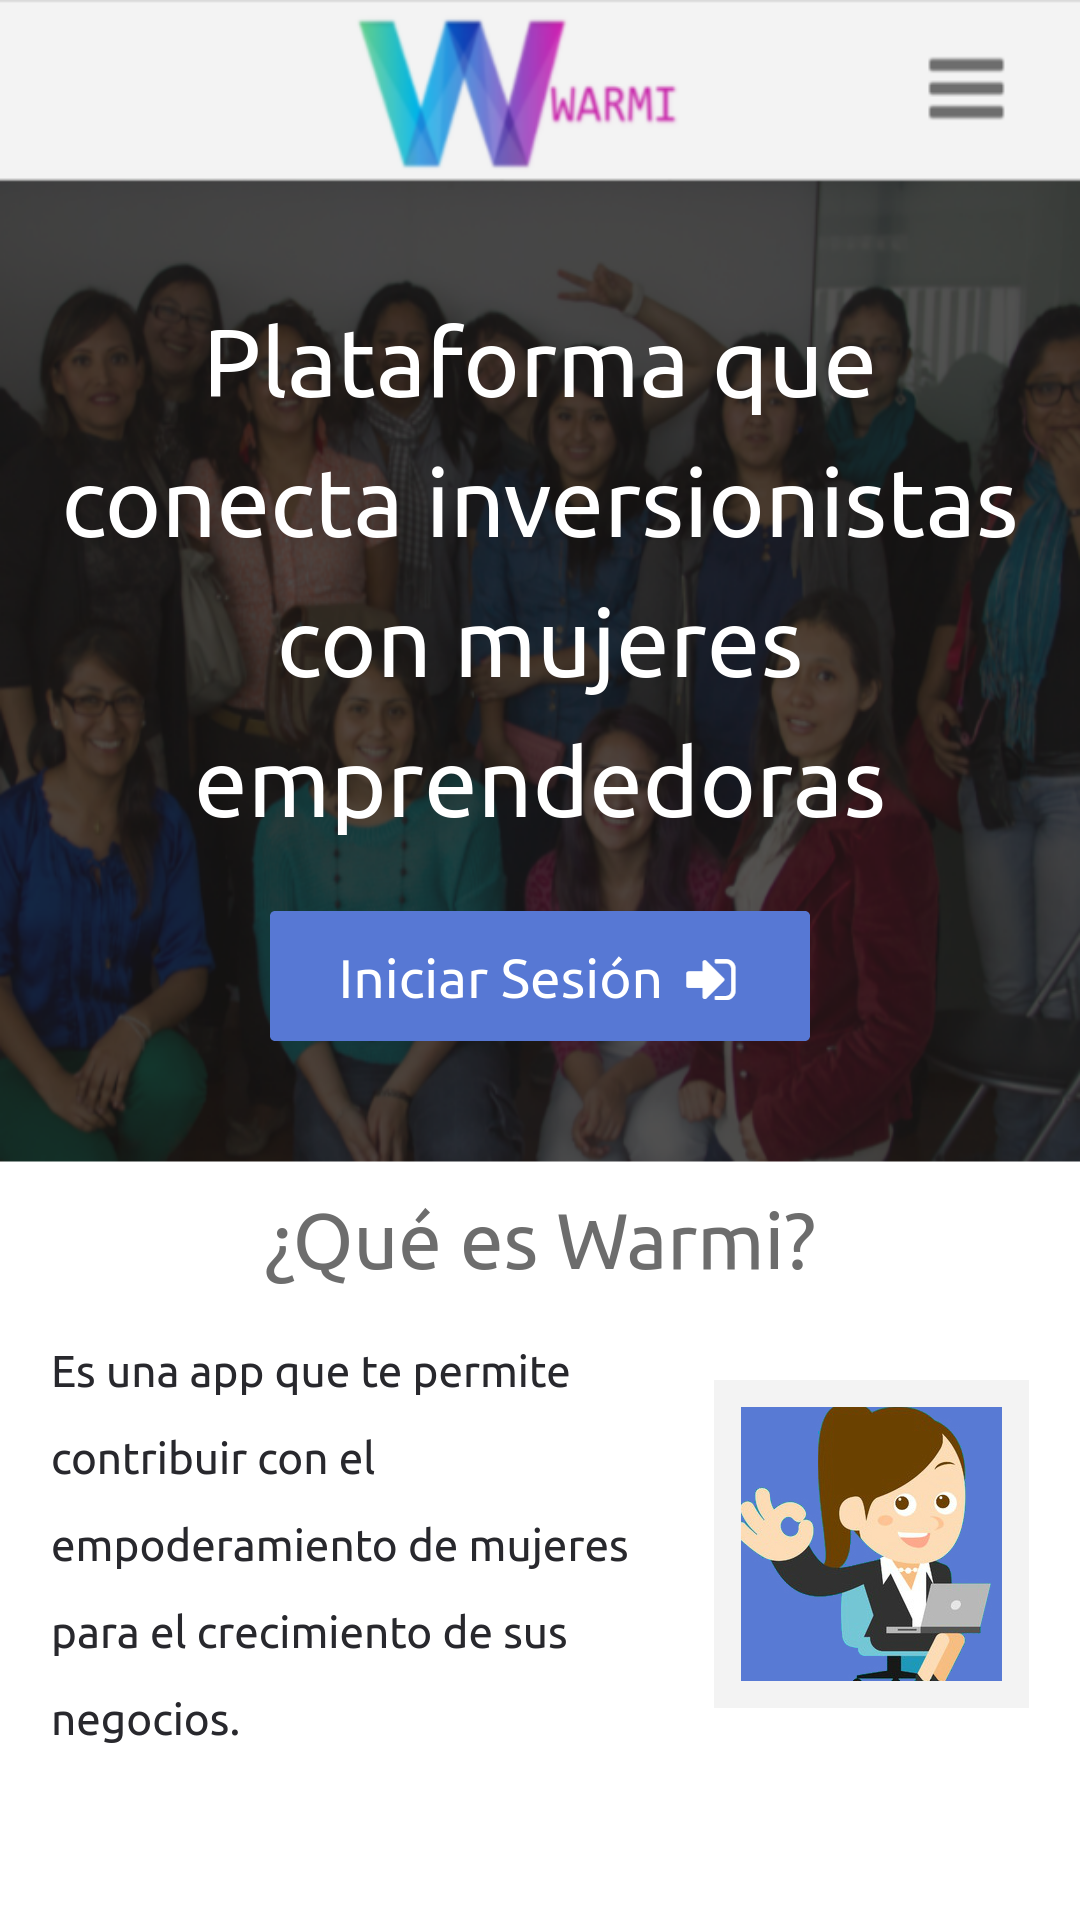
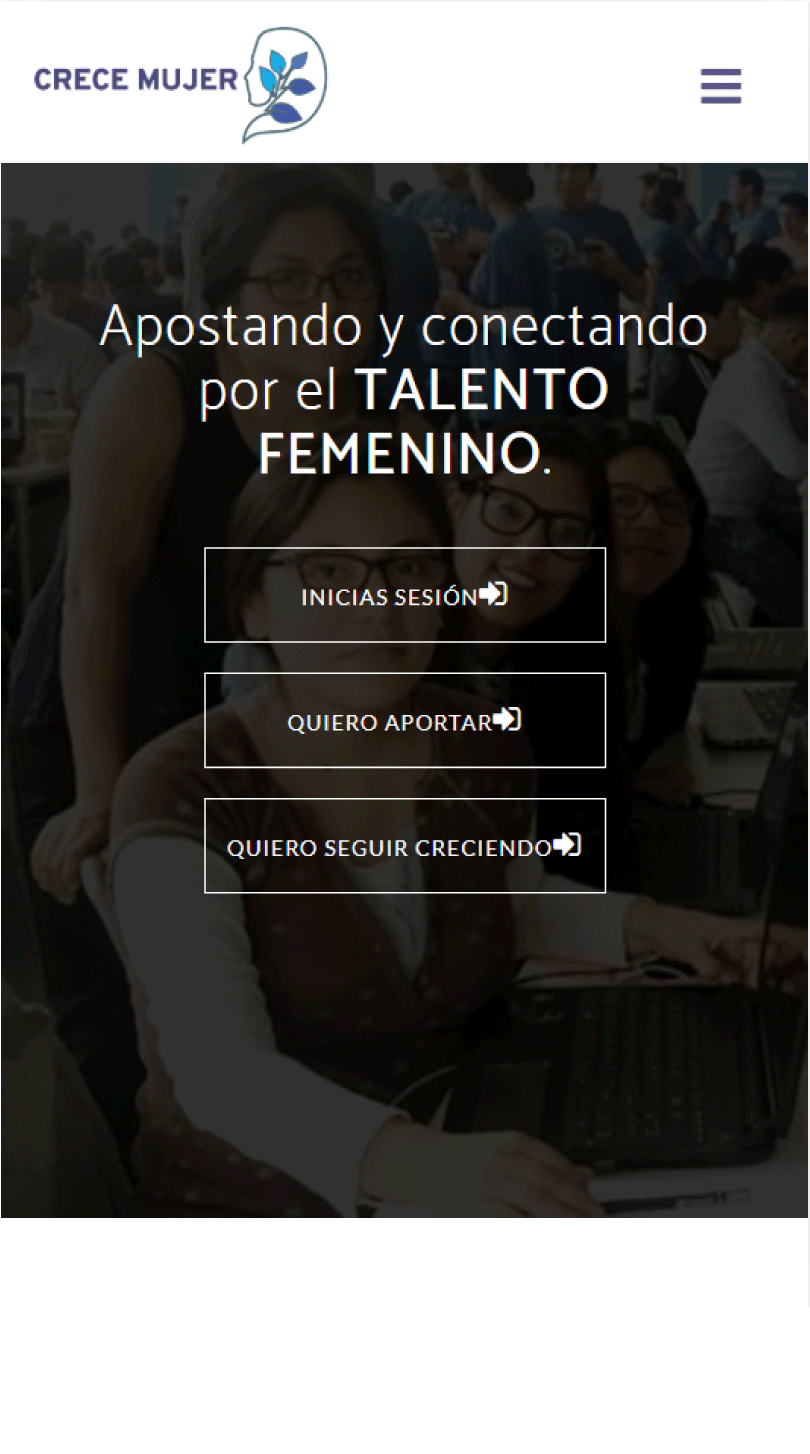
update-img

diff --git a/index.html b/index.html
@@ -70,16 +70,17 @@
                             <div class="header-content-inner">
                                 <h1>Apostando y conectando por el <b style="font-weight: 500;">TALENTO FEMENINO</b>.</h1>
                                 <a class="btn btn-outline btn-xl page-scroll btn-customizado" href="#download">Inicias sesión<i class="fa fa-sign-in"></i></a>
-                                <a class="btn btn-outline btn-xl page-scroll btn-customizado" href="#download">Quiero invertir<i class="fa fa-sign-in"></i></a>
-                                <a class="btn btn-outline btn-xl page-scroll btn-customizado" href="#download">Quiero mi préstamo<i class="fa fa-sign-in"></i></a>
+                                <a class="btn btn-outline btn-xl page-scroll btn-customizado" href="#download">Quiero aportar<i class="fa fa-sign-in"></i></a>
+                                <a class="btn btn-outline btn-xl page-scroll btn-customizado" href="#download">Quiero seguir creciendo<i class="fa fa-sign-in"></i></a>
                             </div>
                         </div>
                         <style>
                             .btn-customizado {
-                                width: 205px;
+                                width: 212px;
                                 padding: 15px 0;
-                                margin: 0 4px 15px;
-                                font-size: 12px;
+                                margin: 0 1px 15px;
+                                font-size: 11px;
+                                letter-spacing: 1px;
                             }
                         </style>
                     </div>
@@ -88,7 +89,7 @@
                             <div class="device-mockup iphone6_plus portrait white device-customizado">
                                 <div class="device">
                                     <div class="screen"><!-- Demo image for screen mockup, you can put an image here, some HTML, an animation, video, or anything else! -->
-                                    <img alt="" class="img-responsive" src="img/screen-14.png"></div>
+                                    <img alt="" class="img-responsive" src="img/screen-14.jpeg"></div>
                                     <div class="button">
                                         <!-- You can hook the "home button" to some JavaScript events or just remove it -->
                                     </div>
@@ -196,7 +197,7 @@
             <div class="row">
                 <div class="col-lg-6 text-center">
                     <div class="feature-item">
-                        <img src="https://www.clinicasabortos.mx/images/blog/igualdad-modificado-1036.jpg" alt="">
+                        <img class="girl_positive" src="img/girl_positive.jpg" alt="">
                     </div>
                 </div>
                 <div class="col-lg-6">
@@ -225,11 +226,6 @@
        <div class="container">
             <div class="row">
                 <div class="col-lg-6 text-center">
-                    <div class="feature-item">
-                        <img src="http://serhu.com.mx/wp-content/uploads/2015/02/beneficios-administracion-nominas-150x150.jpg" alt="">
-                    </div>
-                </div>
-                <div class="col-lg-6">
                     <div class="container-fluid text-center">
                         <div class="section-heading">
                             <h2>Beneficios</h2>
@@ -252,9 +248,14 @@
                             </ul>
                             <div class="woman text-center">
                                 <i class="fa fa-female" aria-hidden="true"></i><i class="fa fa-female" aria-hidden="true"></i><i
-                                    class="fa fa-female" aria-hidden="true"></i>
+                                class="fa fa-female" aria-hidden="true"></i>
                             </div>
                         </div>
+                    </div>
+                </div>
+                <div class="col-lg-6">
+                    <div class="feature-item">
+                        <img class="girl_liking" src="img/girl_liking.jpg" alt="">
                     </div>
                 </div>
             </div>
@@ -285,32 +286,32 @@
         <div class="container">
             <div class="col-lg-12 text-center">
                 <div class="section-heading">
-                    <h2>¿Cómo funciona?</h2>
+                    <h2 style="color: #FFF;">¿Cómo funciona?</h2>
                     <hr style="border:white;">
                 </div>
             </div>
             <ul class="nav nav-tabs">
                 <li class="active grey">
-                    <a data-toggle="tab" href="#home">Si eres inversionista</a>
+                    <a data-toggle="tab" href="#home">Si eres aportador</a>
                 </li>
                 <li class="grey">
-                    <a data-toggle="tab" href="#menu1">Si eres mujer emprendedora</a>
+                    <a data-toggle="tab" href="#menu1">Si quieres seguir creciedo</a>
                 </li>
             </ul>
             <div class="tab-content">
                 <div class="tab-pane fade in active" id="home">
                     <div class="row">
                         <div class="col-lg-12">
-                         <h3 class="mb-20">Si eres inversionista</h3>
+                         <h3 class="mb-20">Si eres aportador</h3>
                             <div class="col-md-4">
                                 <h3 class="mt-0">Pasos a seguir:</h3>
                                 <ol class="steps">
                                     <li class="step">Click a <b>Iniciar Sesión</b>.</li>
                                     <li class="step">Inicia sesión con tu cuenta registrada o ingresa directamente con tu cuenta de <b>G-mail</b> o <b>Facebook</b>.</li>
-                                    <li class="step">Click en <b>Quiero invertir</b>.</li>
-                                    <li class="step"><b>Click en el perfil</b> de la <b>mujer emprendedora</b> que deseas apoyar.</li>
-                                    <li class="step">Para brindar el préstamo, click en <b>Invertir</b>.</li>
-                                    <li class="step">Gracias por apoyar! <b>Tu préstamo ha sido enviado</b>.</li>
+                                    <li class="step">Click en <b>Quiero aportar</b>.</li>
+                                    <li class="step"><b>Click en el perfil</b> de la <b>mujer</b> que deseas apoyar.</li>
+                                    <li class="step">Para brindar el apoyo, click en <b>Aportar</b>.</li>
+                                    <li class="step">Gracias por apoyar! <b>Tu solicitud ha sido enviado</b>.</li>
                                 </ol>
                                 <div class="btn-group">
                                     <a class="btn btn-default" data-slide="prev" href="#scroller"><i class="fa fa-chevron-left"></i></a> <a class="btn btn-default" data-slide="next" href="#scroller"><i class="fa fa-chevron-right"></i></a>
@@ -325,23 +326,23 @@
                                                     <div class="portfolio-item">
                                                         <div class="item-inner">
                                                             <img alt="Nova - Corporate site template" class="img-responsive wp-post-image" height="260" src="img/screen-01.png" title="Nova - Corporate site template" width="260">
-                                                            <h5>Crece Mujer Cash app: Paso 01</h5>
+                                                            <h5>Crece Mujer: Paso 01</h5>
                                                         </div><!--.item-inner-->
                                                     </div><!--.portfolio-item-->
                                                 </div>
                                                 <div class="col-xs-12 col-md-4">
                                                     <div class="portfolio-item">
                                                         <div class="item-inner">
-                                                            <img alt="Fornax - Apps site template" class="img-responsive wp-post-image" height="260" src="img/screen-03.png" title="Fornax - Apps site template" width="260">
-                                                            <h5>Crece Mujer Cash app: Paso 02</h5>
+                                                            <img alt="Fornax - Apps site template" class="img-responsive wp-post-image" height="260" src="img/screen-03.jpg" title="Fornax - Apps site template" width="260">
+                                                            <h5>Crece Mujer: Paso 02</h5>
                                                         </div><!--.item-inner-->
                                                     </div><!--.portfolio-item-->
                                                 </div>
                                                 <div class="col-xs-12 col-md-4">
                                                     <div class="portfolio-item">
                                                         <div class="item-inner">
-                                                            <img alt="Flat Theme - Business Theme" class="img-responsive wp-post-image" height="260" src="img/screen-04.png" title="Flat Theme - Business Theme" width="260">
-                                                            <h5>Crece Mujer Cash app: Paso 03</h5>
+                                                            <img alt="Flat Theme - Business Theme" class="img-responsive wp-post-image" height="260" src="img/screen-04.jpeg" title="Flat Theme - Business Theme" width="260">
+                                                            <h5>Crece Mujer: Paso 03</h5>
                                                         </div><!--.item-inner-->
                                                     </div><!--.portfolio-item-->
                                                 </div>
@@ -353,7 +354,7 @@
                                                     <div class="portfolio-item">
                                                         <div class="item-inner">
                                                             <img alt="Appico Theme - Business Theme" class="img-responsive wp-post-image" height="260" src="img/screen-05.png" title="Appico Theme - Business Theme" width="260">
-                                                            <h5>Crece Mujer Cash app: Paso 04</h5>
+                                                            <h5>Crece Mujer Cash: Paso 04</h5>
                                                         </div><!--.item-inner-->
                                                     </div><!--.portfolio-item-->
                                                 </div>
@@ -361,7 +362,7 @@
                                                     <div class="portfolio-item">
                                                         <div class="item-inner">
                                                             <img alt="Sporty Theme - Business Theme" class="img-responsive wp-post-image" height="260" src="img/screen-07.png" title="Sporty Theme - Business Theme" width="260">
-                                                            <h5>Crece Mujer Cash app: Paso 05</h5>
+                                                            <h5>Crece Mujer Cash: Paso 05</h5>
                                                         </div><!--.item-inner-->
                                                     </div><!--.portfolio-item-->
                                                 </div>
@@ -369,7 +370,7 @@
                                                     <div class="portfolio-item">
                                                         <div class="item-inner">
                                                             <img alt="maxima Theme - Business Theme" class="img-responsive wp-post-image" height="260" src="img/screen-13.png" title="maxima Theme - Business Theme" width="260">
-                                                            <h5>Crece Mujer Cash app: Paso 06</h5>
+                                                            <h5>Crece Mujer Cash: Paso 06</h5>
                                                         </div><!--.item-inner-->
                                                     </div><!--.portfolio-item-->
                                                 </div>
@@ -384,7 +385,7 @@
                 <div class="tab-pane fade" id="menu1">
                 <div class="row">
                 <div class="col-lg-12">
-                 <h3 class="mb-20">Si eres mujer emprendedora</h3>
+                 <h3 class="mb-20">Si eres portador</h3>
                     <div class="col-md-4">
                         <h3 class="mt-0">Pasos a seguir:</h3>
                         <ol class="steps">
